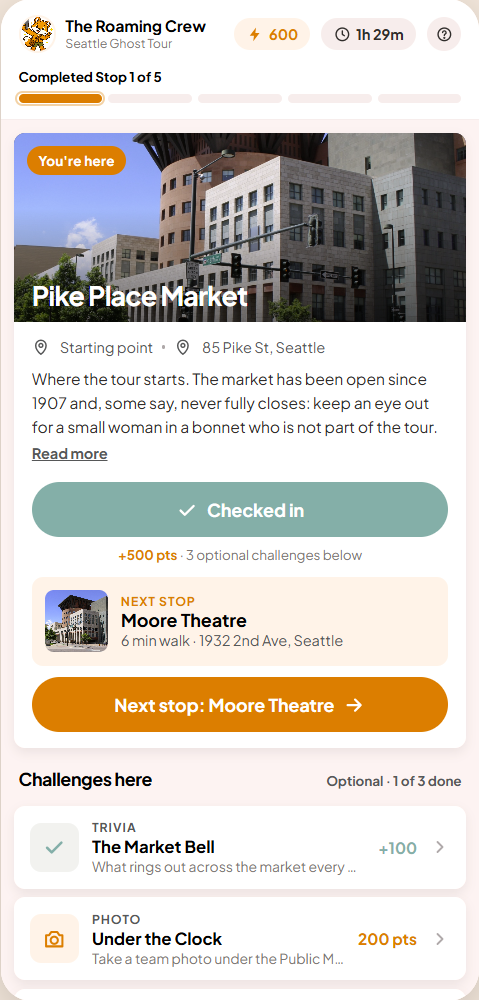
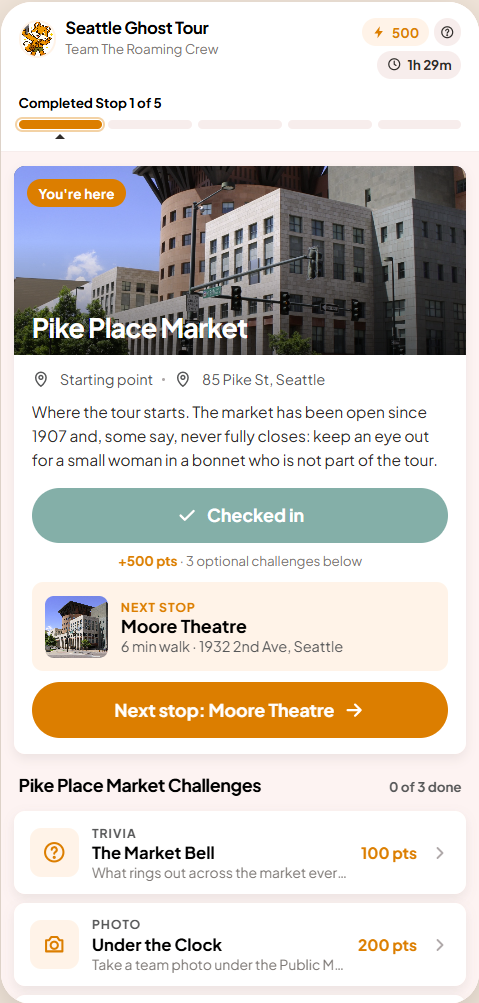
Review page: fresh screenshots, start screen first, three pairs (start, at the stop, between stops)
Claude-Session: https://claude.ai/code/session_01HrqVtVYAoSAQxNYo5M8iSv

diff --git a/review-v3.html b/review-v3.html
@@ -16,6 +16,10 @@
     .cta a.primary { background: var(--lr-orange); color: #fff; }
     .cta a.secondary { background: #fff; color: var(--lr-black); box-shadow: inset 0 0 0 2px var(--lr-black); }
 
+    .hero { display: grid; grid-template-columns: 1fr minmax(240px, 300px); gap: 32px; align-items: center; margin-bottom: 48px; }
+    @media (max-width: 720px) { .hero { grid-template-columns: 1fr; } .hero-shot { order: -1; } }
+    .hero .cta { margin-bottom: 0; }
+    .hero-shot .cap { font-size: 13px; color: var(--lr-gray-3); font-weight: 600; text-align: center; margin: 10px 0 0; }
     .label { font-size: 13px; font-weight: 700; letter-spacing: .18em; text-transform: uppercase; color: var(--lr-orange); margin: 0 0 8px; }
     h2 { font-size: 32px; letter-spacing: -0.04em; line-height: 1.05; margin: 0 0 18px; }
     section { margin-bottom: 56px; }
@@ -61,11 +65,16 @@
 </head>
 <body>
 <div class="wrap">
-  <h1>The hunt screen: what it needs to say</h1>
-  <p class="lead">People spend the whole walking tour on this one screen, usually in a group, outdoors, often at night.
-    Completion and satisfaction have dropped. Before touching pixels, this page sets out what the screen is for,
-    the rules the redesign follows, and then puts the old and new side by side.</p>
-  <div class="cta"><a class="primary" href="./index.html">Try the redesign</a><a class="secondary" href="https://github.com/mikeprimak/lets-roam-hunt">Source on GitHub</a></div>
+  <div class="hero">
+    <div class="hero-text">
+      <h1>The hunt screen: what it needs to say</h1>
+      <p class="lead">People spend the whole walking tour on this one screen, usually in a group, outdoors, often at night.
+        Completion and satisfaction have dropped. This page sets out what the screen is for, the rules the redesign
+        follows, and then puts the old and new side by side.</p>
+      <div class="cta"><a class="primary" href="./index.html">Try the redesign</a><a class="secondary" href="https://github.com/mikeprimak/lets-roam-hunt">Source on GitHub</a></div>
+    </div>
+    <div class="hero-shot"><div class="frame"><img src="./assets/redesign/start.png" alt="Redesigned hunt screen at the first stop: Check In and Start Tour"></div><p class="cap">The redesign, stop 1. One card, one button.</p></div>
+  </div>
 
   <section>
     <p class="label">Part one</p>
@@ -99,22 +108,21 @@
     <h2>Current screen vs redesign</h2>
 
     <div class="pair">
-      <h3>On the way to a stop</h3>
+      <h3>Starting the tour</h3>
       <div class="trio">
         <div class="shot"><span class="tag old">Current</span><div class="frame"><img src="./assets/current/screen-04.png" alt="Current main hunt screen"></div></div>
         <div class="notes">
           <p class="k">What changed</p>
           <ul>
-            <li>One stop, one button<small>not five identical cards and a toggle</small></li>
-            <li>"6 min walk", not "2.87 mi"</li>
-            <li>"On Stop 2 of 5"<small>replaces the ring, the rank and the ghost line</small></li>
-            <li>Score and time are small pills<small>rules moved to the help button</small></li>
-            <li>Check in unlocks on arrival<small>and says so in words</small></li>
+            <li>One stop, one button<small>"Check In &amp; Start Tour", not five identical cards and a toggle</small></li>
+            <li>"On Stop 1 of 5"<small>replaces the ring, the rank and the ghost line</small></li>
+            <li>Tour name and team in full<small>score, time and info stacked on the right</small></li>
+            <li>What the button does, in words<small>"Check in to earn +500 pts and see the challenges here"</small></li>
             <li>Closed? Skip the stop, keep points</li>
-            <li>Route bar is tappable<small>revisit a completed stop; a navy bar always leads back</small></li>
+            <li>Route bar is tappable<small>revisit or unskip a stop; a navy bar always leads back</small></li>
           </ul>
         </div>
-        <div class="shot"><span class="tag new">Redesign</span><div class="frame"><img src="./assets/redesign/next-stop.png" alt="Redesign, on the way to a stop"></div></div>
+        <div class="shot"><span class="tag new">Redesign</span><div class="frame"><img src="./assets/redesign/start.png" alt="Redesign, first stop"></div></div>
       </div>
     </div>
 
@@ -126,31 +134,30 @@
           <p class="k">What changed</p>
           <ul>
             <li>Same card, button turns "Checked in"<small>with a burst, the way a like button rewards you</small></li>
-            <li>"Next stop" appears right there<small>challenges are optional, the tour keeps moving</small></li>
-            <li>Challenges slide up under it<small>so they read as part of this place</small></li>
-            <li>Word labels: Trivia, Photo, Fill in<small>year questions get a wheel, wrong answers get one try and a small "Try again"</small></li>
+            <li>Next stop is right there<small>photo, walk time, address, one orange button</small></li>
+            <li>Challenges are optional<small>they slide up under the same card, named after the place</small></li>
+            <li>Word labels: Trivia, Photo, Fill in<small>year questions get a wheel; one try, small "Try again"; reopen any time</small></li>
             <li>No third sheet, no chips<small>"Completed Stop 1 of 5" up top</small></li>
           </ul>
         </div>
-        <div class="shot"><span class="tag new">Redesign</span><div class="frame"><img src="./assets/redesign/at-stop.png" alt="Redesign, checked in with the challenge list"></div></div>
+        <div class="shot"><span class="tag new">Redesign</span><div class="frame"><img src="./assets/redesign/at-stop.png" alt="Redesign, checked in with next stop and challenges"></div></div>
       </div>
     </div>
 
     <div class="pair">
-      <h3>After the stop</h3>
+      <h3>Between stops</h3>
       <div class="trio">
         <div class="shot"><span class="tag old">Current</span><div class="frame"><img src="./assets/current/screen-11.png" alt="Current location complete modal"></div></div>
         <div class="notes">
           <p class="k">What changed</p>
           <ul>
-            <li>Points first, then the next stop<small>with its walk time</small></li>
-            <li>One button: Let's go<small>not "Show Challenges"</small></li>
-            <li>Fox, no emoji</li>
-            <li>No score breakdown<small>the lore stays on the stop card</small></li>
-            <li>Card, not a modal<small>the screen underneath is still home</small></li>
+            <li>"Next stop" badge, "6 min walk", not "2.87 mi"</li>
+            <li>Directions, then Check in<small>check in unlocks on arrival and says so</small></li>
+            <li>No score breakdown, no modal<small>the screen underneath is still home</small></li>
+            <li>Fox and emoji gone from the flow<small>the fox waits for the finish</small></li>
           </ul>
         </div>
-        <div class="shot"><span class="tag new">Redesign</span><div class="frame"><img src="./assets/redesign/stop-done.png" alt="Redesign, stop done card with the next stop"></div></div>
+        <div class="shot"><span class="tag new">Redesign</span><div class="frame"><img src="./assets/redesign/next-stop.png" alt="Redesign, on the way to stop 2"></div></div>
       </div>
     </div>
 
